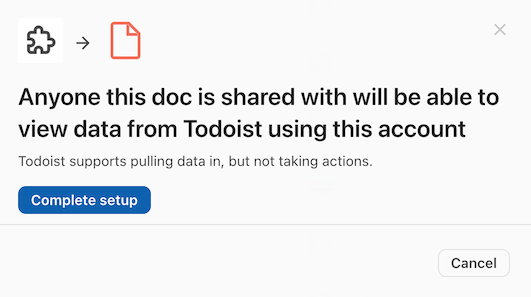
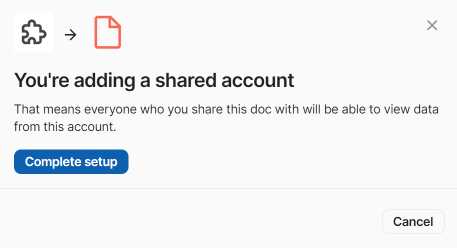
Update OAuth tutorial for deferred auth

diff --git a/docs/tutorials/build/oauth.md b/docs/tutorials/build/oauth.md
@@ -485,26 +485,43 @@ The code we've written so far includes only public information about the OAuth f
 
 Now that the Pack is built and the credentials set, we're finally ready to sign in and try it in a doc.
 
-
-=== ":material-numeric-1-circle: Sign-in prompt"
+=== ":material-numeric-1-circle: Install the Pack"
 
     <section class="tutorial-row" markdown>
     <div markdown>
 
-    Packs with per-user authentication require that you sign in before you can add it to a doc.
+    Create a new doc, install the Pack, and then drag the `Tasks()` formula into the doc.
 
-    Click the **Sign in to add to doc** button.
+    The formula requires an account to work, so it will prompt you to connect one.
+
+    Click the **Connect to Todoist** button.
 
     </div>
     <div markdown>
 
-    <img src="../../../images/tutorial_oauth_signin.png" srcset="../../../images/tutorial_oauth_signin_2x.png 2x" class="screenshot" alt="Prompted to sign in to the Pack on install">
+    <img src="../../../images/tutorial_oauth_connect.png" srcset="../../../images/tutorial_oauth_connect_2x.png 2x" class="screenshot" alt="Prompted to connect an account">
 
     </div>
     </section>
 
 
-=== ":material-numeric-2-circle: Approving access"
+=== ":material-numeric-2-circle: Sign-in dialog"
+
+    <section class="tutorial-row" markdown>
+    <div markdown>
+
+    In the resulting dialog click the button **Sign in with Todoist**.
+
+    </div>
+    <div markdown>
+
+    <img src="../../../images/tutorial_oauth_signin.png" srcset="../../../images/tutorial_oauth_signin_2x.png 2x" class="screenshot" alt="Dialog to sign in with an account">
+
+    </div>
+    </section>
+
+
+=== ":material-numeric-3-circle: Approving access"
 
     <section class="tutorial-row" markdown>
     <div markdown>
@@ -522,14 +539,12 @@ Now that the Pack is built and the credentials set, we're finally ready to sign 
     </section>
 
 
-=== ":material-numeric-3-circle: Complete setup"
+=== ":material-numeric-4-circle: Complete setup"
 
     <section class="tutorial-row" markdown>
     <div markdown>
 
     After approving access, the Todoist tab will close and you'll be back in your Coda doc.
-
-    Depending on the features of your Pack, users may need to make additional decisions about how their account is used. For this Pack there are no choices to make.
 
     Click the **Complete setup** button.
 
